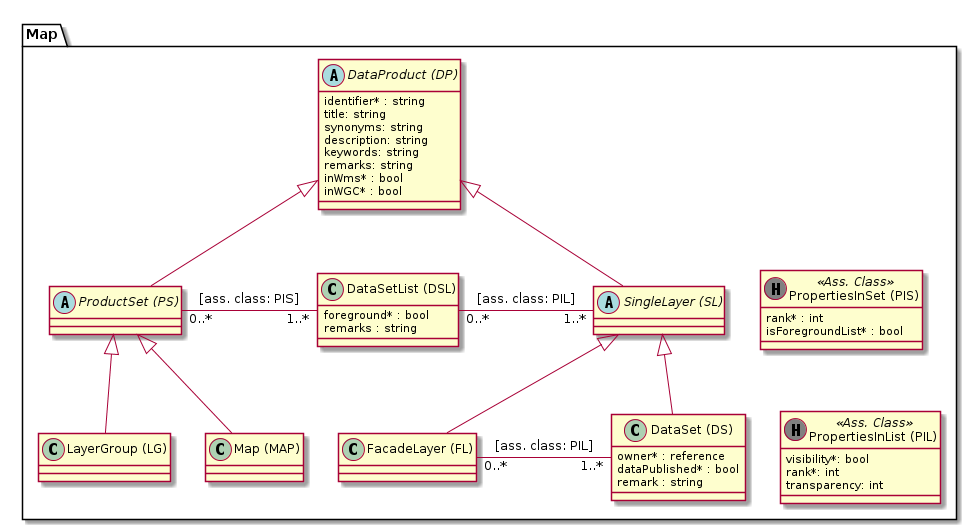
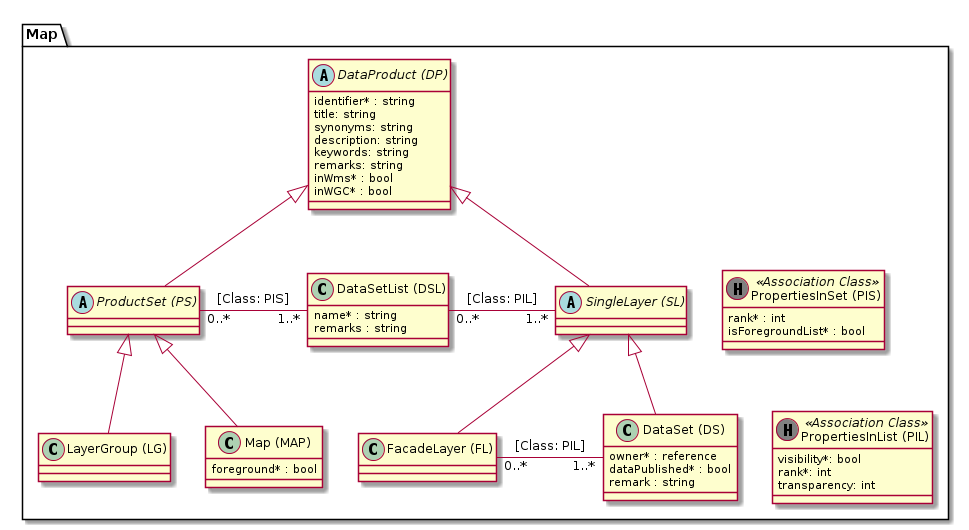
Map can either be foreground or background, not both in the same map

diff --git a/README.md b/README.md
@@ -9,10 +9,12 @@
 * Einzel publiziertes DS: Kein Eintrag in DSL
 * Einzel publizierter FL: Kein Eintrag in DSL
 * LG mit FL und DS: Ein Eintrag in DSL. Je ein Eintrag fuer FL und DS in der PIL   
-* Map mit LG1, FL2 im Vordergrund und FL3, FL4 im Hintergrund
-  * Je ein Eintrag in DSL fuer LG1, FL2 mit foreground=true. FL2 hat einen, LG1 mehrere Eintraege in der PIL.
-  * Je ein Eintrag in DSL fuer FL3, FL4 mir foreground=false. FL3 und FL4 haben je einen Eintrag in der PIL
-  * Sortierung in PIS: LG1, FL2 FL3, FL4.
+* Vordergrund-Karte (Map) mit LG1 und FL2: 
+  * Je ein Eintrag in DSL fuer LG1 und FL2.
+  * FL2 hat einen, LG1 mehrere Eintraege in der PIL.
+* Hintergrund-Karte (Map) mit FL3 und FL4
+  * Je ein Eintrag in DSL fuer FL3 und FL4 mir foreground=false.
+  * FL3 und FL4 haben je einen Eintrag in der PIL
     
 ### Baumtiefe (Theoretisch unendliche Verschachtelung von DataProducts)
     
@@ -24,7 +26,19 @@ Facadelayer enthalten wiederum DataSets (Ueber Beziehung FL - DS)
 
 Die Unterscheidung, ob eine Tabelle eine Geometriespalte hat oder nicht erfolgt neu über eine Vererbungsbeziehung
 und nicht über eine Assoziation. Die DataSetView entspricht neu der Klasse VectorDS. Im eher seltenen Fall der 
-Publikation einer "Geotabelle" mit mehreren Darstellungen müssen entsprechend mehrere VectorDS-Objekte erfasst werden. 
+Publikation einer "Geotabelle" mit mehreren Darstellungen / unterschiedlichen Berechtigungen, ... müssen 
+entsprechend mehrere VectorDS-Objekte erfasst werden. 
+
+### Layergroup
+
+Umfasst genau eine DSL (Darf im Unterschied zur Map nicht mehrere DSL umfassen).
+
+### Map
+
+Die Map ist keine "ganzheitliche" Karte im Sinne von "Zusammenstellung aus Vordergrundebenen und einer Hintergrundebene".
+Eine Map ist entweder eine Vordergrund- oder eine Hintergrundkarte, entsprechend dem "Paradigma" des Web GIS Client.
+
+Im Gegensatz zu einer Layergroup kann eine Map mehrere DSL's enthalten.
 
 ## Data
 
